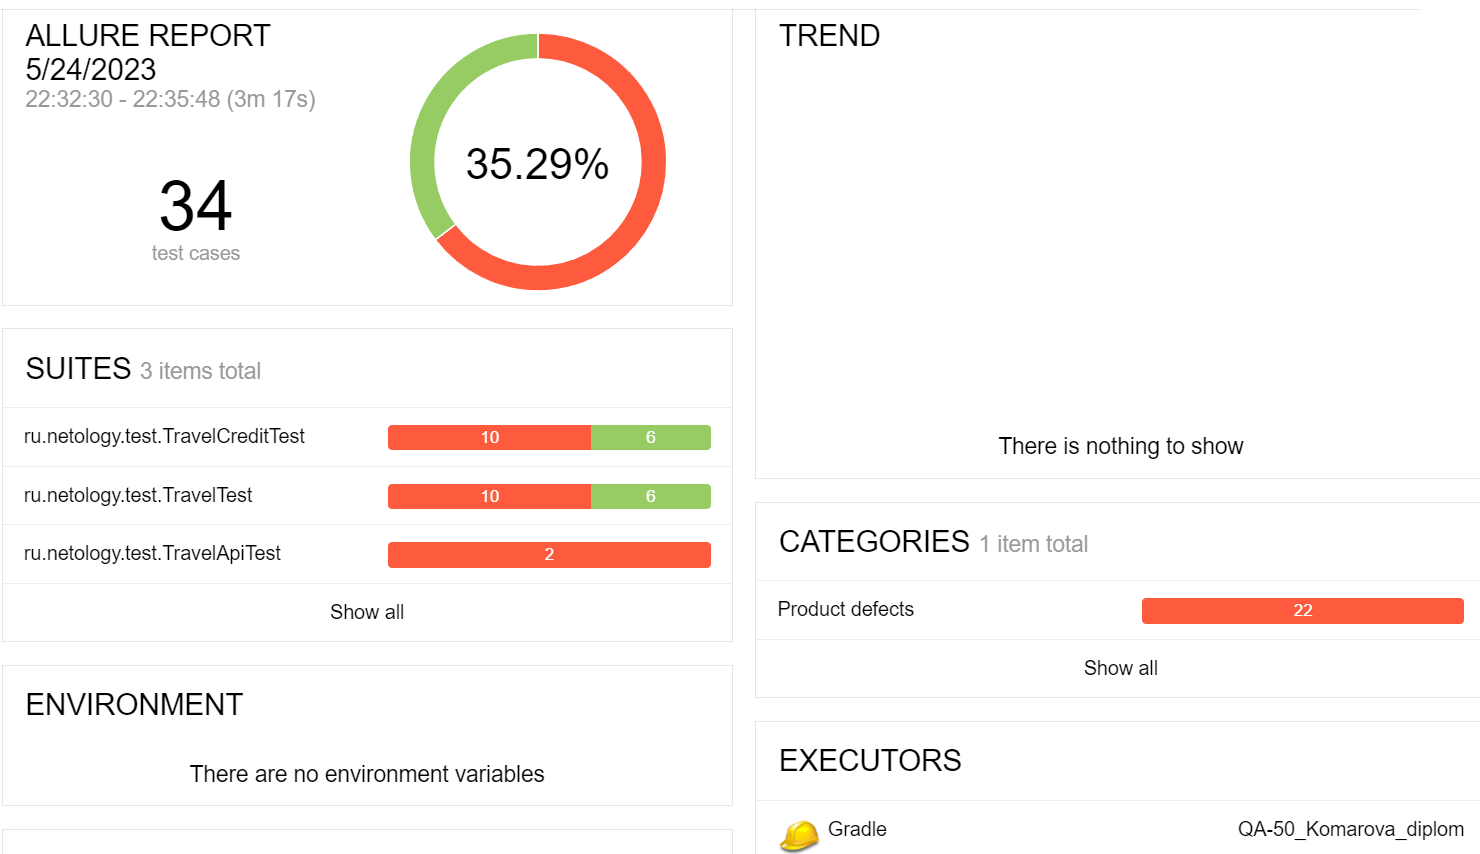
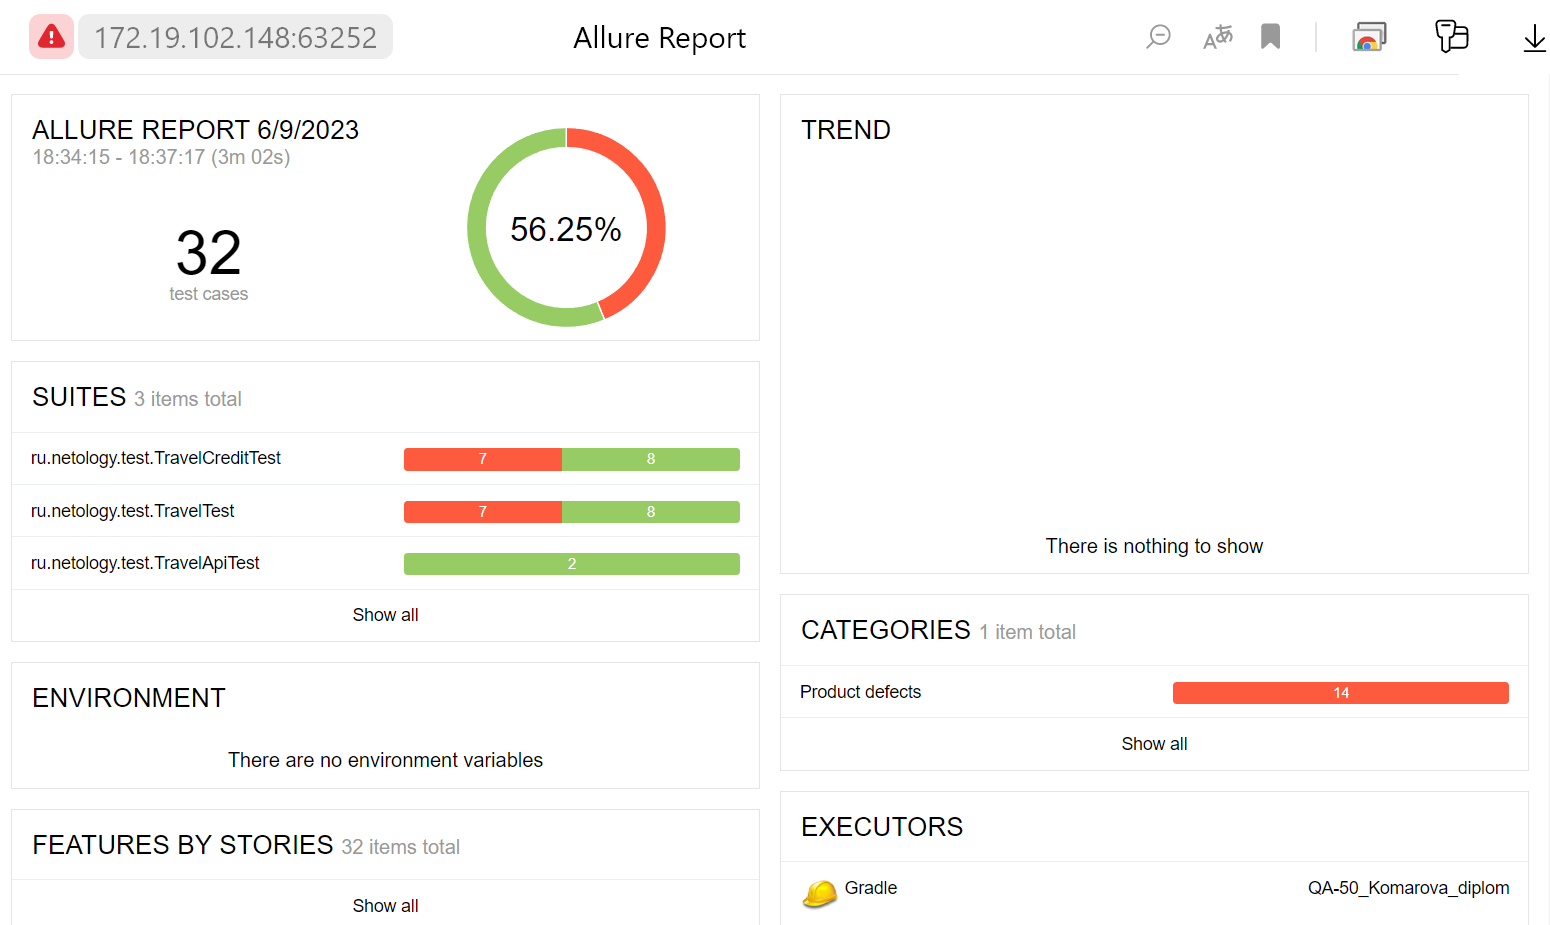
Fixed bug - incorrect execution of the node-app

diff --git a/src/test/java/ru/netology/page/PayPage.java b/src/test/java/ru/netology/page/PayPage.java
@@ -19,10 +19,8 @@ public class PayPage {
     private SelenideElement cvcField = $(".input__control", 4);
     private SelenideElement continueButton = $(byText("Продолжить"));
     private static SelenideElement errorMessage = $(".input__sub");
-    private static SelenideElement closerMessageOK = $(".notification__content",0);
-    private static SelenideElement closerMessageError = $(".notification__content",1);
-    //.notification_status_error  .notification__title "Ошибка" .notification__content "Ошибка! Банк отказал в проведении операции."
-    //.notification_status_ok  .notification__title "Успешно" .notification__content "Операция одобрена Банком."
+    private static SelenideElement closerMessageOK = $(".notification_status_ok .notification__content");
+    private static SelenideElement closerMessageError = $(".notification_status_error .notification__content");
 
     public PayPage(String pay) {
         if (pay.equals("pay")) {
@@ -47,22 +45,11 @@ public class PayPage {
     }
 
     public void checkCloserMessageOK() {
-        closerMessageOK.shouldHave(exactText("Операция одобрена Банком."))
-                .shouldBe(visible,Duration.ofSeconds(15));
-    }
-
-    public void checkNotCloserMessageOK() {
-        closerMessageError.shouldHave(exactText("Операция одобрена Банком."))
-                .shouldBe(hidden,Duration.ofSeconds(15));
+        closerMessageOK.shouldBe(visible,Duration.ofSeconds(15));
     }
 
     public void checkCloserMessageError() {
-        closerMessageError.shouldHave(exactText("Ошибка! Банк отказал в проведении операции."))
-                .shouldBe(visible,Duration.ofSeconds(15));
+        closerMessageError.shouldBe(visible,Duration.ofSeconds(15));
     }
 
-    public void checkNotCloserMessageError() {
-        closerMessageError.shouldHave(exactText("Ошибка! Банк отказал в проведении операции."))
-                .shouldBe(hidden,Duration.ofSeconds(15));
-    }
 }

diff --git a/src/test/java/ru/netology/test/TravelTest.java b/src/test/java/ru/netology/test/TravelTest.java
@@ -1,7 +1,6 @@
 package ru.netology.test;
 
 import com.codeborne.selenide.logevents.SelenideLogger;
-import com.mysql.cj.x.protobuf.MysqlxDatatypes;
 import io.qameta.allure.selenide.AllureSelenide;
 import org.junit.jupiter.api.*;
 import ru.netology.data.DBHelper;
@@ -39,14 +38,6 @@ public class TravelTest {
         String expectedStatus = "APPROVED";
         assertEquals (expectedStatus, actualStatus);
     }
-    @Test
-    @DisplayName("Should NOT be visible the message from the bank about a NOT pay if the card is 'approved'")
-    public void shouldNotPayCardValidApproved() {
-        PayPage payPage = travelPage.payTravel();
-        DataHelper.CardInfo cardValidApproved = DataHelper.getCardInfoValidApproved();
-        payPage.validPay(cardValidApproved);
-        payPage.checkNotCloserMessageError();
-    }
 
     @Test
     @DisplayName("Should be visible the message from the bank about a not pay if the card is 'declined'")
@@ -60,13 +51,14 @@ public class TravelTest {
         String expectedStatus = "DECLINED";
         assertEquals (expectedStatus, actualStatus);
     }
+
     @Test
-    @DisplayName("Should NOT be visible the message from the bank about a successful pay if the card is 'declined'")
-    public void shouldNotPayCardValidDeclined() {
+    @DisplayName("Should be visible the message from the bank about a not pay if the card is not exist")
+    public void shouldPayCardNotExist() {
         PayPage payPage = travelPage.payTravel();
-        DataHelper.CardInfo cardValidDeclined = DataHelper.getCardInfoValidDeclined();
-        payPage.validPay(cardValidDeclined);
-        payPage.checkNotCloserMessageOK();
+        DataHelper.CardInfo cardNotExist = DataHelper.getCardInfoNotExist();
+        payPage.validPay(cardNotExist);
+        payPage.checkCloserMessageError();
     }
 
     @Test

diff --git a/src/test/java/ru/netology/test/TravelCreditTest.java b/src/test/java/ru/netology/test/TravelCreditTest.java
@@ -39,14 +39,6 @@ public class TravelCreditTest {
         String expectedStatus = "APPROVED";
         assertEquals (expectedStatus, actualStatus);
     }
-    @Test
-    @DisplayName("Should NOT be visible the message from the bank about a NOT credit pay if the card is 'approved'")
-    public void shouldNotCreditCardValidApproved() {
-        PayPage creditPage = travelPage.creditTravel();
-        DataHelper.CardInfo cardValidApproved = DataHelper.getCardInfoValidApproved();
-        creditPage.validPay(cardValidApproved);
-        creditPage.checkNotCloserMessageError();
-    }
 
     @Test
     @DisplayName("Should be visible the message from the bank about a not credit pay if the card is 'declined'")
@@ -60,14 +52,16 @@ public class TravelCreditTest {
         String expectedStatus = "DECLINED";
         assertEquals (expectedStatus, actualStatus);
     }
+
     @Test
-    @DisplayName("Should NOT be visible the message from the bank about a successful credit pay if the card is 'declined'")
-    public void shouldNotCreditCardValidDeclined() {
+    @DisplayName("Should be visible the message from the bank about a not pay if the card is not exist")
+    public void shouldPayCardNotExist() {
         PayPage creditPage = travelPage.creditTravel();
-        DataHelper.CardInfo cardValidDeclined = DataHelper.getCardInfoValidDeclined();
-        creditPage.validPay(cardValidDeclined);
-        creditPage.checkNotCloserMessageOK();
+        DataHelper.CardInfo cardNotExist = DataHelper.getCardInfoNotExist();
+        creditPage.validPay(cardNotExist);
+        creditPage.checkCloserMessageError();
     }
+
     @Test
     @DisplayName("Should be visible message 'Неверный формат' if the length of card number is less than 19 ")
     public void shouldFailedInputInvalidNumber() {

diff --git a/src/test/java/ru/netology/data/DataHelper.java b/src/test/java/ru/netology/data/DataHelper.java
@@ -29,6 +29,14 @@ public class DataHelper {
                 generateCVC());
     }
 
+    public static CardInfo getCardInfoNotExist() {
+        return new CardInfo(
+                getNumberNotExist(),
+                generateExpireYear(),
+                generateExpireMonth(),
+                generateHolder("en"),
+                generateCVC());
+    }
     public static CardInfo getCardInfoInvalidNumber() {
         return new CardInfo(
                 generateInvalidNumber(),
@@ -135,9 +143,11 @@ public class DataHelper {
     public static String getNumberApproved() {
         return "4444 4444 4444 4441";
     }
-
     public static String getNumberDeclined() {
         return "4444 4444 4444 4442";
+    }
+    public static String getNumberNotExist() {
+        return "4444 4444 4444 4444";
     }
 
     public static String generateInvalidNumber() {

diff --git a/reports/Report.md b/reports/Report.md
@@ -6,45 +6,28 @@
 * UI-тесты - классы _TravelTest, TravelCreditTest_;
 * API-тесты - класс _TravelApiTest_;
 * по результатам прогона тестов получены репорты Allure.
-#### Общее количество тест-кейсов: 34.
-* _TravelTest_ - 16,
-* _TravelCreditTest - 16,
+#### Общее количество тест-кейсов: 32.
+* _TravelTest_ - 15,
+* _TravelCreditTest - 15,
 * _TravelApiTest_ - 2.
-#### Процент успешных и не успешных тест-кейсов: 35% успешных, 65% неуспешных.
-* _TravelTest_ - 37% успешных, 63% неуспешных,
-* _TravelCreditTest_ - 37% успешных, 63% неуспешных,,
-* _TravelApiTest_ - 100% неуспешных.
+#### Процент успешных и не успешных тест-кейсов: 56% успешных, 44%.
+* _TravelTest_ - 53% успешных, 47% неуспешных,
+* _TravelCreditTest_ - 53% успешных, 47% неуспешных,,
+* _TravelApiTest_ - 100% успешных.
 
 Репорты Allure:
 
-  ![img.png](images/img.png)
-  ![img2.png](images/img2.png)
-  ![img1.png](images/img1.png)
- 
+![img.png](images/img.png)
+![img_1.png](images/img_1.png)
+![img_2.png](images/img_2.png)
 
-#### Bag-репорты: открыты 5 issues.
+#### Bag-репорты: открыты 4 issues.
 * [В поле "Владелец" можно ввести цифры, любые знаки, буквы не латинского алфавита в неограниченном количестве #1](https://github.com/KomarovaN/QA50-diplom/issues/1),
 * [В поле "Месяц" можно ввести значение больше 12 #2](https://github.com/KomarovaN/QA50-diplom/issues/2),
-* [В ответ на запрос POST симулятору сервисов банка, отправленному с валидными данными, возвращается код ошибки сервера 500 #3](https://github.com/KomarovaN/QA50-diplom/issues/3),
-* [В базе данных нет записей о статусе оплаты после получения ответа от симулятора сервисов банка #4](https://github.com/KomarovaN/QA50-diplom/issues/4),
 * [Если поля "Месяц" и "Номер карты" пустые, то выводится сообщение "Неверный формат" вместо сообщения "Поле обязательно для заполнения" #5](https://github.com/KomarovaN/QA50-diplom/issues/5).
+* [Отображается сообщение банка об успешной оплате при вводе номера заблокированной карты на странице "Оплата по карте" и на странице "Купить в кредит" #6](https://github.com/KomarovaN/QA-50_Komarova_diplom/issues/6).
 
-#### Общие рекомендации.
-Тесты приложения (_классы TravelTest, TravelCreditTest) с проверкой отображения сообщений банка о результатах выпонения операции простой оплаты:
-* shouldPayCardValidApproved(),
-* shouldNotPayCardValidApproved();
-* shouldPayCardValidDeclined(),
-* shouldNotPayCardValidDeclined().
-* shouldCreditCardValidApproved(),
-* shouldNotCreditCardValidApproved(),
-* shouldCreditCardValidDeclined(),
-* shouldNotCreditCardValidDeclined();
 
-необходимо повторить после устранения ошибки запроса к симулятору сервисов банка с кодом 500,
-то есть когда симулятор сервисов банка вернет код выполнения запроса 200,
-и API-тесты (_class TravelApiTest_) пройдут успешно.
 
-![img_6.png](images/img_6.png)
-![img_7.png](images/img_7.png)
 
 

diff --git a/README.md b/README.md
@@ -17,11 +17,11 @@
 
 2. Dыполнить в терминале команду запуска тестируемого приложения (SUT) с параметрами подключения к базе данных postgresql:
 
-    *java “-Dspring.datasource.url=jdbc:postgresql://localhost:5432/data” “-Dspring.datasource.username=app” “-Dspring.datasource.password=pass” -jar artifacts\aqa-shop.jar*
+    *java “-Dspring.datasource.url=jdbc:postgresql://localhost:5432/db” “-Dspring.datasource.username=app” “-Dspring.datasource.password=pass” -jar artifacts\aqa-shop.jar*
 
 3. Открыть новый терминал и выполнить команды по сборке и запуску тестов с параметрами подключения к базе данных postgresql и генератора отчетов:
 
-    *.\gradlew clean test "-Dsource=jdbc:postgresql://localhost:5432/data" “-Dspring.datasource.username=app” “-Dspring.datasource.password=pass”*
+    *.\gradlew clean test "-Dsource=jdbc:postgresql://localhost:5432/db" “-Dspring.datasource.username=app” “-Dspring.datasource.password=pass”*
 
     *.\gradlew allureserve*
 
@@ -32,11 +32,11 @@
 ### Порядок проверки с mysql
 1. В терминале выполнить команду запуска тестируемого приложения (SUT) с параметрами подключения к базе данных mysql:
 
-    *java "-Dspring.datasource.url=jdbc:mysql://localhost:3306/app" “-Dspring.datasource.username=app” “-Dspring.datasource.password=pass” -jar artifacts/aqa-shop.jar*
+    *java "-Dspring.datasource.url=jdbc:mysql://localhost:3306/db" “-Dspring.datasource.username=app” “-Dspring.datasource.password=pass” -jar artifacts/aqa-shop.jar*
 
 6. Во втором терминале выполнить команды по сборке и запуску тестов с параметрами подключения к базе данных mysql и генератора отчетов:
 
-    *.\gradlew clean test "-Dsource=jdbc:mysql://localhost:3306/app" “-Dspring.datasource.username=app” “-Dspring.datasource.password=pass”*
+    *.\gradlew clean test "-Dsource=jdbc:mysql://localhost:3306/db" “-Dspring.datasource.username=app” “-Dspring.datasource.password=pass”*
 
     *.\gradlew allureserve*
 
